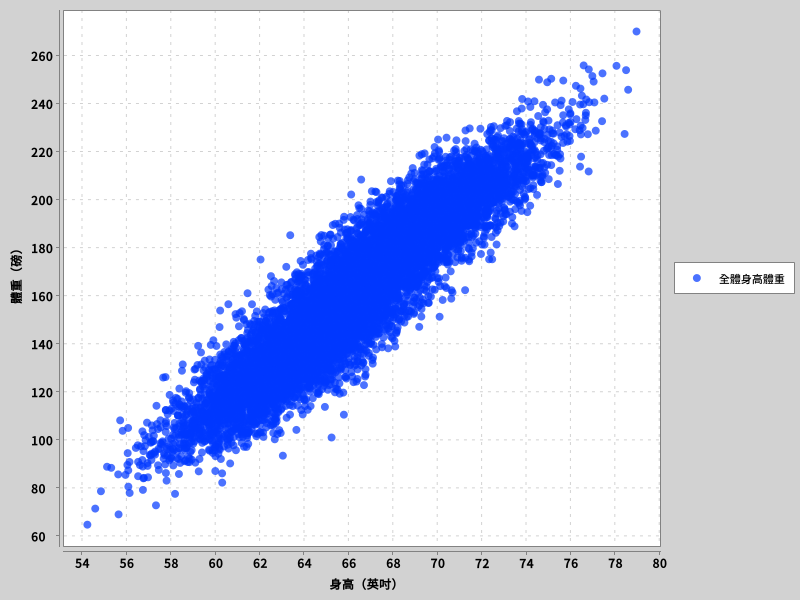
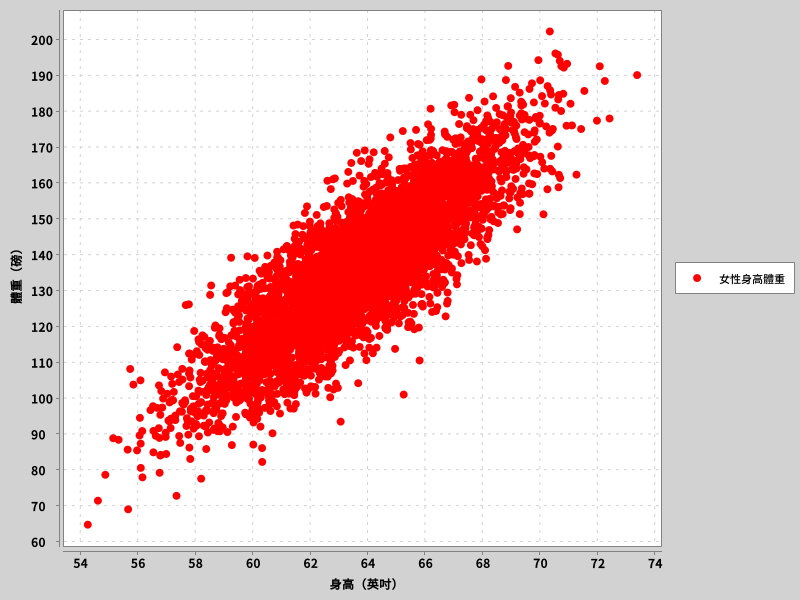
modify: Add README for each chapter.

diff --git a/02-DataObservation/README.md b/02-DataObservation/README.md
@@ -1,3 +1,234 @@
 第二章、資料觀察
 =================
 
+在「[機器學習駭客秘笈][0]」第二章中，介紹了統計學基礎的相關概念，主要有以下幾個重點的概念：
+
+1. 平均數
+2. 中位數與百分位數
+3. 眾數
+4. 常態分佈、長尾與短尾分佈
+
+因為上述的概念相當基本，也有許多統計學教材可以參照，程式碼實作也相對應單純，因此不納入這一章的範例程式裡。
+
+這張的主要重點，在於如何透過簡單的製圖，用肉眼看出是否有什麼觀聯性。
+
+在這個範例裡，我們採用了一萬人的性別、身高、體重的資料，做為我們的製圖用資料集。其中男性 5000 人，女性 5000 人。檔案格式為具有標頭的，以逗號為分隔的 CSV 檔案。其中第一欄為性別，第二欄為身高（吋），第三個欄位為體重（磅）。
+
+針對這個資料集，我們會例用簡易的作圖，來觀察下面兩件事情：
+
+1. 身高或體重，在這一萬人之中，其分佈是否有規律性
+2. 身高與體重，這兩個參數，是否具有相關性
+
+以作圖觀察分佈
+------------------
+
+分佈的製圖程式碼位於 [src/main/scala/regression/DistributionPlot.scala](src/main/scala/regression/DistributionPlot.scala) 檔案中。
+
+我們首先讀取出一萬人的性別、身高、體重等資料，並讀取成我們可以處理的資料結構。
+
+```scala
+    val rows: List[Record] = Record.readFromCSVFile("data/01_heights_weights_genders.csv")
+```
+
+接著我們以一英吋為單位，進行身高的直方圖作圖。
+
+```scala
+    // 以一英吋為單位，製作身高直方圖。
+    // 我們可以從圖中可以看出來，似乎有接近常態分佈。
+    // 圖片存在 images/histogramChart1Inch.png 這個檔案中
+    val histogram1Inch = HistogramLayer(rows.map(_.height), 1)
+    val histogramChart1Inch = plot(List(histogram1Inch))
+    BitmapEncoder.saveBitmap(histogramChart1Inch, "images/histogramChart1Inch.png", BitmapFormat.PNG)
+```
+
+![以一英吋為單位的身高直方圖](./images/histogramChart1Inch.png)
+
+這邊要注意的，是如果在直方圖製圖時，選擇的刻度太大，則圖型可能會失真，讓我們看不出其中的分佈。
+
+```scala
+    // 若刻度太粗糙，則可能會失真，觀察資料時應注意是否在合適的刻度上。
+    // 下述以 5 英吋為單位，製作身高直方圖。
+    // 這張圖已經看不太出來常態分佈的感覺了
+    val histogram5Inch = HistogramLayer(rows.map(_.height), 5)
+    val histogramChart5Inch = plot(List(histogram5Inch))
+    BitmapEncoder.saveBitmap(histogramChart5Inch, "images/histogramChart5Inch.png", BitmapFormat.PNG)
+```
+
+![以五英吋為單位的身高直方圖](./images/histogramChart5Inch.png)
+
+但如果刻度過細，一樣會有問題，圖型會變得難以解讀。因此在觀察資料時，選擇合適的刻度是很重要的。
+
+```scala
+    // 若刻度過細，則可能會難以解讀資料，觀察資料時應注意是否在合適的刻度上。
+    // 下述以 0.001 英吋為單位，製作身高直方圖。
+    // 這張圖已經看不太出來常態分佈的感覺了
+    val histogram001Inch = HistogramLayer(rows.map(_.height), 0.001)
+    val histogramChart001Inch = plot(List(histogram001Inch))
+    BitmapEncoder.saveBitmap(histogram001Inch, "images/histogramChart001Inch.png", BitmapFormat.PNG)
+```
+
+![以 0.001 英吋為單位的身高直方圖](./images/histogramChart001Inch.png)
+
+直方圖並不一定能夠很好的觀察到分佈的圖形，因此用密度圖可能是比較好的選擇。
+
+這邊我們使用了兩種製圖函式庫，分別是 XChart 與 NSPL。XChart 並不支援密度圖，我們直接用直方圖的座標數據，將頂點連接起來。
+
+```scala
+    // 製作以 1 英吋為單位的身高密度圖，可以觀察到接近常態分佈，但頂部似乎有些平，
+    // 這可能代表資料有隱藏的結構。
+    //
+    // 註：由於 XChart 繪圖函式庫的關係，此處並非真的密度圖，僅示意。
+    val densityChart1Inch = plot(List(histogram1Inch), CategorySeriesRenderStyle.Area)
+    val allDensityInXChart = new XYChartBuilder().xAxisTitle("身高").build()
+    allDensityInXChart.addSeries("HelloWorld", histogram1Inch.histogram.getxAxisData(), histogram1Inch.histogram.getyAxisData())
+    BitmapEncoder.saveBitmap(allDensityInXChart, "images/allDensityInXChart.png", BitmapFormat.PNG)
+```
+
+![以 XChart 繪製的偽密度圖](./images/allDensityInXChart.png)
+
+雖然可以看出大致上像是常態分佈，但可以看到線條並不圓滑，這是因為在繪製密度圖時，實際上應該要以特定的方式估算各個資料點的密度，所以用直方圖的座標數據，並不一定真的能看出分佈。
+
+接著我們使用 NSPL 進行繪圖，此函式庫支援密度圖的繪製：
+
+```scala
+    // 使用 NSPL 繪制真正的 10000 人體身高密度圖
+    // 檔案儲存在 images/allHeightDensityInNSPL.png 當中
+    val allDensityInNPSL = xyplot
+      { density(rows.map(_.height).toIndexedSeq, 1) -> line() }
+      { par.withXLab("身高").withYLab("密度").withMain("10000 人身高密度圖") }
+
+    pngToFile(new File("images/allHeightDensityInNSPL.png"), allDensityInNPSL)
+```
+
+可以看見若以全體的身高數據進行繪圖，相當接近於常態分佈，但在山頂的部份，卻出現了類似高原的型狀，這代表我們的資料可能有隱藏的結構。
+
+![以 NSPL 繪製身高密度圖](./images/allHeightDensityInNSPL.png)
+
+接著我們可以猜測，會不會是男性女性的身高實際上有所不同？因此，我們可以針對男女性的身高分佈，分別作圖：
+
+```scala
+    // 因為我們懷疑資料有隱藏的結構，在這種情況下，我們可以試著將資料分組。
+    // 以這個資料集而言，最簡單的分組方式就是以性別分組，所以我們可以試著針對不同性別分別作圖。
+    // 從這張圖來看，確實有兩個集群。
+    val maleHeight = rows.filter(_.gender == Male).map(_.height)
+    val femaleHeight = rows.filter(_.gender == Female).map(_.height)
+    val maleHeightHistogram = HistogramLayer(maleHeight, 1, "男性身高")
+    val femaleHeightHistogram = HistogramLayer(femaleHeight, 1, "女性身高")
+    val heightByGender = plot(List(maleHeightHistogram, femaleHeightHistogram), CategorySeriesRenderStyle.Area)
+    BitmapEncoder.saveBitmap(histogramChart5Inch, "images/heightByGender.png", BitmapFormat.PNG)
+
+    // 使用 NSPL 繪制男女分組的身高密度圖
+    // 檔案儲存在 images/genderHeightDensityInNSPL.png 當中
+    val heightDensityInNPSL = xyplot(
+      density(maleHeight.toIndexedSeq, 1) -> line(color = Color.BLUE),
+      density(femaleHeight.toIndexedSeq, 1) -> line(color = Color.RED),
+    ) {
+      par.withXLab("身高").withYLab("密度").withMain("10000 人身高密度圖")
+    }
+    pngToFile(new File("images/genderHeightDensityInNSPL.png"), heightDensityInNPSL)
+```
+
+從圖中我們可以看出，分開作圖後，男女性的身高均呈現常態分佈的鐘型特徵，且相較於上張圖形，此圖中的兩座山，其山頂均變得更尖了，更接近一般的常態分佈常見的狀況。
+
+![以 XChart 繪製的男女分組身高偽密度圖](./images/heightByGender.png)
+
+![以 NSPL 繪製的男女身高密度圖](./images/genderHeightDensityInNSPL.png)
+
+接著針對體重，一樣依照男女分組，進行分佈圖的繪製。從圖中可以看出，體重的部份也是接近常態分佈。
+
+```scala
+    // 針對體重，同樣依性別分開作圖，觀察是否有類似的現象。
+    val maleWeight = rows.filter(_.gender == Male).map(_.weight)
+    val femaleWeight = rows.filter(_.gender == Female).map(_.weight)
+    val maleWeightHistogram = HistogramLayer(maleWeight, 5, "男性體重")
+    val femaleWeightHistogram = HistogramLayer(femaleWeight, 5, "女性體重")
+    val weightByGender = plot(List(maleWeightHistogram, femaleWeightHistogram), CategorySeriesRenderStyle.Area)
+    BitmapEncoder.saveBitmap(weightByGender, "images/weightByGender.png", BitmapFormat.PNG)
+
+    // 使用 NSPL 繪制男女分組的身高密度圖
+    // 檔案儲存在 images/genderWeightDensityInNSPL.png 當中
+    val weightDensityInNPSL = xyplot(
+      density(maleWeight.toIndexedSeq, 5) -> line(color = Color.BLUE),
+      density(femaleWeight.toIndexedSeq, 5) -> line(color = Color.RED),
+    ) {
+      par.withXLab("體重").withYLab("密度").withMain("10000 人身體重度圖")
+    }
+    pngToFile(new File("images/genderWeightDensityInNSPL.png"), weightDensityInNPSL)
+```
+
+![以 XChart 繪製的男女分組體重偽密度圖](./images/weightByGender.png)
+
+![以 NSPL 繪製的男女身體重度圖](./images/genderWeightDensityInNSPL.png)
+
+以作圖觀察身高體重相關性
+----------------------------
+
+接著我們使用散佈圖作圖，來觀察身高與體重這兩個參數是否有關聯。製圖程式碼位於 [src/main/scala/regression/CorrelationPlot.scala](src/main/scala/regression/CorrelationPlot.scala) 檔案中。
+
+
+首先，我們針對全體的身高體重進行散佈圖的製圖，橫軸為身高，縱軸為體重。
+
+```scala
+    val allData: List[Record] = Record.readFromCSVFile("data/01_heights_weights_genders.csv")
+
+    // 針對全體身高體重進行繪圖，可以看出似乎身高與體重有相關性。
+    // 也就是說，我們之後應該可以用線性迴歸的方式，以身高預測體重。
+    // 圖片儲存於 images/allGenderScatter.png 中
+    val allHeights = allData.map(_.height)
+    val allWeights = allData.map(_.weight)
+    val allGenderScatter = createScatterChart(ScatterLayer(allHeights, allWeights, "全體身高體重"))
+    BitmapEncoder.saveBitmap(allGenderScatter, "images/allGenderScatter.png", BitmapFormat.PNG)
+```
+
+從圖中我們可以看出來，兩者似乎呈現正相關，也許我們之後可以用性線迴歸的方式，以身高預測體重。
+
+![全體的身高體重散佈圖](./images/allGenderScatter.png)
+
+接著我們針對男性的資料進行製圖，可以看出似乎也呈現正相關。
+
+```scala
+    // 針對男性身高體重進行繪圖，可以看出似乎身高與體重有相關性。
+    // 也就是說，我們之後應該可以用線性迴歸的方式，以身高預測體重。
+    // 圖片儲存於 images/maleScatter.png 中
+    val maleHeights = allData.filter(_.gender == Male).map(_.height)
+    val maleWeights = allData.filter(_.gender == Male).map(_.weight)
+    val maleScatter = createScatterChart(ScatterLayer(maleHeights, maleWeights, "男性身高體重"))
+    BitmapEncoder.saveBitmap(allGenderScatter, "images/maleScatter.png", BitmapFormat.PNG)
+```
+
+![男性的身高體重散佈圖](./images/maleScatter.png)
+
+接著我們針對女性的資料進行製圖，可以看出似乎也呈現正相關。
+
+```scala
+    // 針對女性身高體重進行繪圖，可以看出似乎身高與體重有相關性。
+    // 也就是說，我們之後應該可以用線性迴歸的方式，以身高預測體重。
+    // 圖片儲存於 images/femaleScatter.png 中
+    val femaleHeights = allData.filter(_.gender == Female).map(_.height)
+    val femaleWeights = allData.filter(_.gender == Female).map(_.weight)
+    val femaleScatter = createScatterChart(ScatterLayer(femaleHeights, femaleWeights, "女性身高體重", Some(Color.RED)))
+    BitmapEncoder.saveBitmap(allGenderScatter, "images/femaleScatter.png", BitmapFormat.PNG)
+```
+
+![女性的身高體重散佈圖](./images/femaleScatter.png)
+
+最後，我們針對散佈圖上，男性與女性的資料，以不同的顏色呈現，可以看到圖型上似乎有明確的邊界。也就是說，我們之後也許有機會用機器學習建立分類演算法，給定一個身高體重，來判定這個人是男性還是女性。
+
+```scala
+    // 針對男性女性分組的身高體重進行繪圖，可以看出似乎身高與體重有相關性，
+    // 且男女性似組別似乎在圖上是有明顯的分區的。
+    //
+    // 也就是說，我們之後有機會用機器學習建立分類演算法，給定一個身高體重，
+    // 來判定這個人是男性還是女性。
+    //
+    // 圖片儲存於 images/groupScatter.png 中
+    val groupScatter = createScatterChart(
+      ScatterLayer(maleHeights, maleWeights, "男性身高體重"),
+      ScatterLayer(femaleHeights, femaleWeights, "女性身高體重")
+    )
+    BitmapEncoder.saveBitmap(allGenderScatter, "images/groupScatter.png", BitmapFormat.PNG)
+```
+
+![分組的身高體重散佈圖](./images/groupScatter.png)
+
+[0]: https://learning.oreilly.com/library/view/machine-learning-for/9781449330514/

diff --git a/01-DataCleanning/README.md b/01-DataCleanning/README.md
@@ -1,3 +1,85 @@
 第一章、資料清理
 =================
 
+這一章的主要重點，在於我們所獲取的資料，不一定是能直接使用的。大部份的時候，我們會需要針對資料進行清理，以確保資料的正確性以及其代表性足夠。
+
+此外，由於資料的來源各不相同，其儲存的型式也可能不同，例如可能是含表頭的，以 TAB 鍵分隔的 TSV 檔，也有可能是不含表頭的 TSV 檔，又或者是 JSON / XML……等等的檔案格式，因此我們也需要有能力在程式碼中，針對不同的檔案格式，解析成我們可以操作的資料結構。
+
+此外，這一章也說明了如何針對進行簡單的作圖，以人類的直覺找出資料是否有可能的隱藏的關聯性或規律。
+
+在這個範例程式裡，我們使用了 UFO 的目擊資料來做為範例。此處的檔案範例為無表頭，以 TAB 鍵為分隔的 TSV 檔，每一行為一筆 UFO 目擊資料。
+
+這個範例程式最終的目的，是我們希望透過簡易的作圖，來初步觀察美國各洲的 UFO 目擊頻率是否有所差異，以及各洲的 UFO 目擊記錄是否與季節有所關聯，是否有固定的模式。
+
+首先我們針對資料進行簡易的清理，清理的條件為：
+
+1. 濾除沒有目擊日期的資料，因為在我們的觀察中，日期是重要因素，因此我們要確保資料並需有目擊時間。
+2. 濾除非美國境內的資料，因為我們的最終目的，是以美國各州為一個單位，因此我們不在意美國之外的目擊記錄。
+
+接著，我們進行非常初步的資料探堪，確認資料的範圍。
+
+此部份的程式碼如下：
+
+```scala
+    // 拿到資料後，第一步需要清理資料，以這個例子來看，由於部份資料沒有「發生日期」這個資訊。
+    // 而我們最終要分析的東西是「美國各州的 UFO 目擊次數是否有季節性規律」，所以我們需要進行
+    // 以下的資料清理：
+    //   1. 清除沒有目擊日期的資料
+    //   2. 清除美國以外的資料
+    val usOnlyUFOSightWithDate = allUFOSight
+      .filterNot(sight => sight.dateOccurred.isEmpty || sight.dateReported.isEmpty)
+      .filterNot(_.location.isEmpty)
+      .filter(x => usStates.contains(x.location.get.state))
+
+    // 先進行初步的資料探堪，可以發現最早於西元 1400 年就有 UFO 目擊報告。
+    println("最舊一次的目擊日期：" + usOnlyUFOSightWithDate.map(_.dateOccurred.get).min)
+    println("最新一次的目擊日期：" + usOnlyUFOSightWithDate.map(_.dateOccurred.get).max)
+```
+
+接著我們以十年為一個單位，進行直方圖作圖。
+
+```scala
+    // 首先我們針對所有美國的目擊資料進行直方圖作圖，從圖中可以看出資料集中在 1990 年後，
+    //
+    // 此圖片存放在 images/allSightsInUS.png 此檔案中。
+    val allSights = new HistogramPlotter(usOnlyUFOSightWithDate).tenYearBuckets("所有目擊資料")
+    BitmapEncoder.saveBitmap(allSights, "images/allSightsInUS.png", BitmapFormat.PNG)
+```
+
+![十年為單位的直方圖](./images/allSightsInUS.png)
+
+從上圖中我們可以看出，資料集中在 1990 年之後。因此接下來，我們針對 1990 年後美國所有州的目擊資料，以季為單位進行直方圖作圖。
+
+```scala
+    // 接著我們針對 1990 年後的目擊資料，以季為單位進行直方圖作圖。
+    // 從圖中我們可以看出，目擊次數似乎有隨著時間升高的趨勢。
+    //
+    // 此圖片存放在 images/modernSightsInUS.png 檔案中
+    val usModernUFOSight = usOnlyUFOSightWithDate.filter(_.dateOccurred.get.getYear >= 1990)
+    val modernSights = new HistogramPlotter(usModernUFOSight).quarterBuckets("1990 後目擊資料")
+    BitmapEncoder.saveBitmap(modernSights, "images/modernSightsInUS.png", BitmapFormat.PNG)
+```
+
+![1990 後以季為單位的直方圖](./images/modernSightsInUS.png)
+
+最後，我們針對美國各州 1990 後的目擊次數，進行折線圖作圖，並整理至同一張大圖中：
+
+```scala
+    // 最後，針對美國各州 1990 後的目擊事件，我們分開進行折線圖作圖，並將其放到同一張大圖中。
+    //
+    // 從圖中可以看出，加州 (CA) 與華聖頓州 (WA) 的目擊記錄明顯比其他州多，
+    // 而某些州有明顯的高峰期。
+    //
+    // 此圖片存放在 images/sightGirdByStates.png 檔案中
+    val startYear = usModernUFOSight.map(_.dateOccurred.get.getYear).min
+    val endYear = usModernUFOSight.map(_.dateOccurred.get.getYear).max
+    val plotter = new LineChartPlotter(usModernUFOSight, startYear, endYear)
+    val sightGridByStates = usStates.toList.sorted.map(plotter.plot)
+
+    BitmapEncoder.saveBitmap(sightGridByStates.asJava, 10, 5, "images/sightGirdByStates.png", BitmapFormat.PNG)
+```
+
+![各州的目擊次數折線圖](./images/sightGirdByStates.png)
+
+
+我們可以看到，有某些洲，例如加州與華聖頓州，目擊頻率似乎比其他州高很多。順帶一提，著名的 51 區位於內華達州（NA），但從圖表上來看，這州的目擊記錄似乎反而沒有比其他熱點州，例如德州（TX）來得高呢。可能外星人在那邊墜機後被拿去解剖了，所以不敢再過來了。（誤
